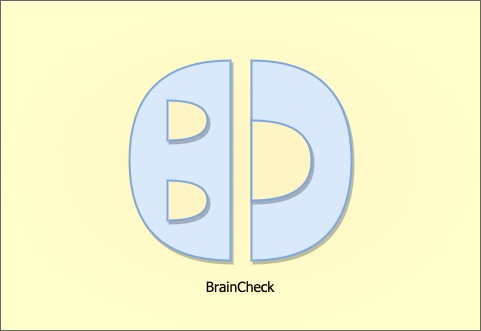
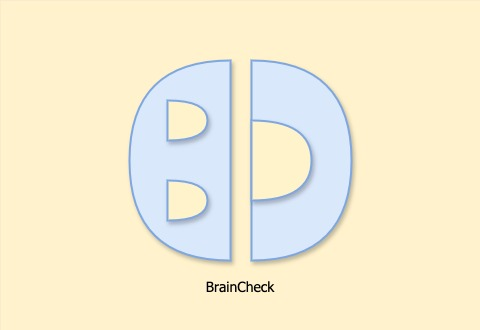
Improved Colours, Data Vis Basics

diff --git a/src/Components/MainPage.js b/src/Components/MainPage.js
@@ -14,6 +14,13 @@ var bt_model = 0;
 var az_model = 0;
 var pk_model = 0;
 
+var bt_graph_value1 = 0.0;
+var bt_graph_value2 = 0.0;
+var bt_graph_value3 = 0.0;
+var bt_graph_value4 = 0.0;
+var az_graph_value = 0.0;
+var pk_graph_value = 0.0;
+
 //load models
 async function loadModel() {
     bt_model = await tf.loadLayersModel('/tfjs_btmodel/model.json');
@@ -116,6 +123,13 @@ function MainPage() {
         setModelResult("Brain Tumour: " + bt_class_names[bt_position] + " - " + bt_max_value + "\n" 
                         + "Alzheimers: " + az_class_names[az_position] + " - " + az_max_value + "\n"
                         + "Parkinsons: " + pk_class_names[pk_position] + " - " + pk_max_value);
+        
+        bt_graph_value1 = (130 * bt_prediction[0][0]);
+        bt_graph_value2 = (130 * bt_prediction[0][1]);
+        bt_graph_value3 = (130 * bt_prediction[0][2]);
+        bt_graph_value4 = (130 * bt_prediction[0][3]);
+        az_graph_value = (130 * az_max_value);
+        pk_graph_value = (130 * pk_max_value);
     }
 
     //handles Abort Model button
@@ -157,7 +171,26 @@ function MainPage() {
                 </div>
 
                 <div className="column">                 
-                    <ImageDisplay/>
+                    <div style={{width:'100%', height:'60%', borderRadius:'5px', border:'1px solid #000', backgroundColor:'beige'}}>
+                        <svg
+                            xmlns="http://www.w3.org/2000/svg"
+                            width="100%"
+                            height="100%"
+                            viewBox="0 0 100 100"
+                            >
+                            <rect x="-15" y="8" width="130" height="42" stroke="black" fill="transparent" stroke-width="0.3"/>
+                            <rect x="-15" y="55" width="130" height="15" stroke="black" fill="transparent" stroke-width="0.3"/>
+                            <rect x="-15" y="75" width="130" height="15" stroke="black" fill="transparent" stroke-width="0.3"/>
+                            
+                            <rect x="-15" y="10" width={bt_graph_value1} height="8" stroke="black" fill="powderBlue" stroke-width="0.3"/>
+                            <rect x="-15" y="20" width={bt_graph_value2} height="8" stroke="black" fill="powderBlue" stroke-width="0.3"/>
+                            <rect x="-15" y="30" width={bt_graph_value3} height="8" stroke="black" fill="powderBlue" stroke-width="0.3"/>
+                            <rect x="-15" y="40" width={bt_graph_value4} height="8" stroke="black" fill="powderBlue" stroke-width="0.3"/>
+
+                            <rect x="-15" y="55" width={az_graph_value} height="15" stroke="black" fill="powderBlue" stroke-width="0.3"/>
+                            <rect x="-15" y="75" width={pk_graph_value} height="15" stroke="black" fill="powderBlue" stroke-width="0.3"/>
+                        </svg>
+                    </div>
                     <p>Data Visualisation</p>   
                     <div className="messageArea">
                         <TextDisplay label='Model Results:' text={modelResult}/>

diff --git a/src/Components/TextDisplay.js b/src/Components/TextDisplay.js
@@ -4,8 +4,8 @@ function TextDisplay(props) {
     return (
         <>
             <label>
-                <div style={{textAlign:'left'}}>{props.label}</div>
-                <textarea rows={4} cols={20} style={{width:'100%'}} readOnly={true} value={props.text}/>
+                <div style={{textAlign:'left', fontWeight:'bold'}}>{props.label}</div>
+                <textarea rows={4} cols={20} style={{width:'100%', borderRadius:'5px', border:'1px solid #000', backgroundColor:'white'}} readOnly={true} value={props.text}/>
             </label>
         </>
     );

diff --git a/src/Components/MainPage.css b/src/Components/MainPage.css
@@ -2,7 +2,7 @@
     display: flex; 
     min-Height: 100vh; 
     max-Height: 100vh;
-    background-color: rgb(250, 250, 250);
+    background-color: rgb(0, 157, 196);
 }
 
 .column {
@@ -15,12 +15,14 @@
     position: absolute;
     top: 65%;
     width: 45%;
+    color: rgb(255, 255, 255);
 }
 
 .input
 {
     position: absolute;
     top: 90%;
+    color: rgb(255, 255, 255);
 }
 
 .buttons
@@ -35,4 +37,5 @@ p
     font-size: small;
     font-style: italic;
     margin: 0.5%;
+    color: rgb(255, 255, 255);
 }

diff --git a/src/Components/ImageDisplay.js b/src/Components/ImageDisplay.js
@@ -13,8 +13,8 @@ function ImageDisplay(props) {
 
     return (
         <>
-            <div style={{width:'100%', height:'60%', border:'1px solid #333'}}>
-                <img src={displayedImage} alt='Test of brain' style={{width:'100%', height:'100%'}}/>
+            <div style={{width:'100%', height:'60%'}}>
+                <img src={displayedImage} alt='Test of brain' style={{width:'100%', height:'100%', borderRadius:'5px', border:'1px solid #000'}}/>
             </div>
         </>
     );

diff --git a/src/Components/Button.js b/src/Components/Button.js
@@ -3,7 +3,7 @@ import React from 'react';
 function Button(props) {
     return (
         <>
-            <button onClick={props.click} style={{width:'50%', height:'30px', backgroundColor:'gainsboro'}}>
+            <button onClick={props.click} style={{width:'50%', height:'30px', borderRadius:'5px', border:'1px solid #333', backgroundColor:'gainsboro'}}>
                 {props.label}
             </button>
         </>
